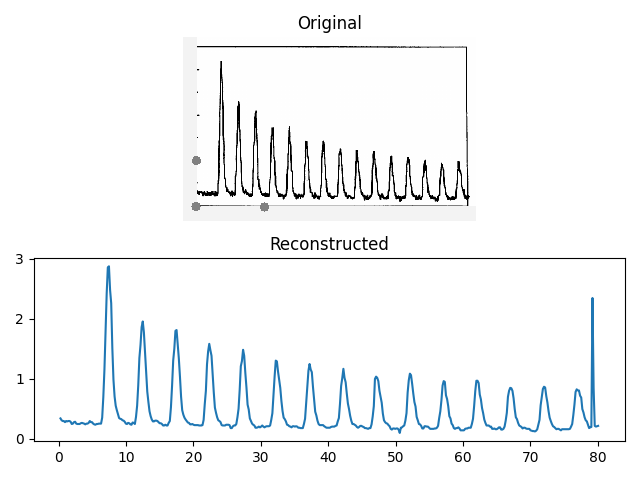
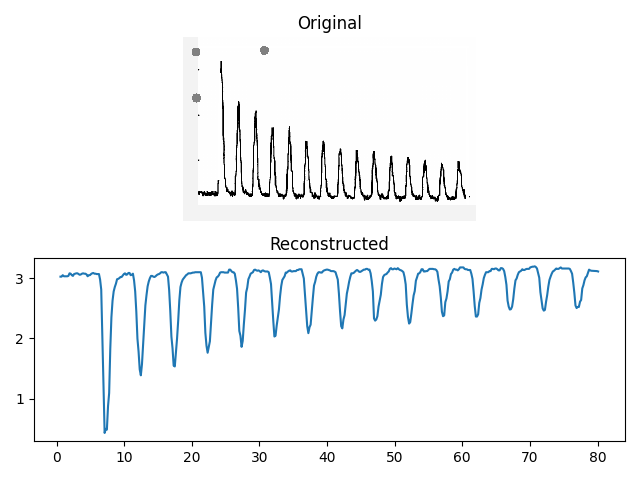
Still failing on test2

diff --git a/plotdigitizer/plotdigitizer.py b/plotdigitizer/plotdigitizer.py
@@ -16,6 +16,7 @@ import numpy.polynomial.polynomial as poly
 
 import plotdigitizer.grid as grid
 import plotdigitizer.trajectory as trajectory
+import plotdigitizer.geometry as geometry
 
 # import logging
 # logging.basicConfig(level=logging.INFO)
@@ -33,7 +34,7 @@ params_: T.Dict[str, T.Any] = {}
 args_ = None
 
 # NOTE: remember these are cv coordinates and not numpy.
-coords_: T.List[T.List[float]] = []
+locations_: T.List[T.List[float]] = []
 points_: T.List[T.List[float]] = []
 
 img_: np.ndarray = np.zeros((1, 1))
@@ -58,7 +59,7 @@ def save_img_in_cache(img: np.ndarray, filename: T.Optional[Path] = None):
 
 
 def plot_traj(traj, outfile: Path):
-    global coords_
+    global locations_
     import matplotlib.pyplot as plt
 
     x, y = zip(*traj)
@@ -66,7 +67,7 @@ def plot_traj(traj, outfile: Path):
     plt.subplot(211)
 
     # there are numpy coords.
-    for c in coords_:
+    for c in locations_:
         p = list(map(int, c))
         p[1] = img_.shape[0] - p[1]
         csize = img_.shape[0] // 40
@@ -92,7 +93,7 @@ def click_points(event, x, y, flags, params):
     # Function to record the clicks.
     if event == cv.EVENT_LBUTTONDOWN:
         logger.info("MOUSE clicked on %s,%s" % (x, y))
-        coords_.append((x, y))
+        locations_.append((x, y))
 
 
 def show_frame(img, msg="MSG: "):
@@ -104,20 +105,20 @@ def show_frame(img, msg="MSG: "):
 
 
 def ask_user_to_locate_points(points, img):
-    global coords_
+    global locations_
     cv.namedWindow(WindowName_)
     cv.setMouseCallback(WindowName_, click_points)
-    while len(coords_) < len(points):
-        i = len(coords_)
+    while len(locations_) < len(points):
+        i = len(locations_)
         p = points[i]
-        pLeft = len(points) - len(coords_)
+        pLeft = len(points) - len(locations_)
         show_frame(img, "Please click on %s (%d left)" % (p, pLeft))
-        if len(coords_) == len(points):
+        if len(locations_) == len(points):
             break
         key = cv.waitKey(1) & 0xFF
         if key == "q":
             break
-    logger.info("You clicked %s" % coords_)
+    logger.info("You clicked %s" % locations_)
 
 
 def list_to_points(points) -> T.List[T.List[float]]:
@@ -137,23 +138,20 @@ def compute_scaling_offset(p, P) -> T.List[T.Tuple[float, float]]:
     return [(sX, sY), (offX, offY)]
 
 
-def transform_axis(img, erase_near_axis: int = 1):
+def transform_axis(img, erase_near_axis: int = 2):
     # extra: extra rows and cols to erase. Help in containing error near axis.
     # compute the transformation between old and new axis.
-    T = compute_scaling_offset(points_, coords_)
+    T = compute_scaling_offset(points_, locations_)
 
     # FIXME: This is broken becuase compute_scaling_offset is not the right way
     # to trim the axis. Correct way to to figure out the location of axis and
     # trim from there. Can we make sure that user always click on lower side of
     # axis so I can trim below that?
     ## x-axis and y-axis chopping can be computed by offset.
-    ##r, _ = img.shape
-    ##offX, offY = T[1]
-    ##offCols, offRows = int(round(offX)), int(round(offY))
-    ##logger.info(f"Offsets: {offCols=}, {offRows=}")
-    ##img[r - offRows - erase_near_axis :, :] = params_["background"]
-    ##img[:, : offCols + erase_near_axis] = params_["background"]
-    ##logger.info(f"erase near axis: : {erase_near_axis}")
+    offCols, offRows = geometry.find_origin(locations_)
+    logger.info(f"{locations_=} → origin {offCols=}, {offRows=}")
+    img[:, :offCols+erase_near_axis] = params_["background"]
+    img[offRows-erase_near_axis:, :] = params_["background"]
     logger.debug(f"Tranformation params: {T}")
     return T
 
@@ -242,7 +240,7 @@ def process_image(img):
     global args_
     params_ = compute_foregrond_background_stats(img)
 
-    T = transform_axis(img, erase_near_axis=1)
+    T = transform_axis(img, erase_near_axis=3)
     save_img_in_cache(img, f"{args_.INPUT.name}.transformed_axis.png")
 
     # extract the plot that has color which is farthest from the background.
@@ -253,7 +251,7 @@ def process_image(img):
 
 
 def run(args):
-    global coords_, points_
+    global locations_, points_
     global img_, args_
     args_ = args
 
@@ -273,10 +271,10 @@ def run(args):
     save_img_in_cache(img_, args_.INPUT.name)
 
     points_ = list_to_points(args.data_point)
-    coords_ = list_to_points(args.location)
+    locations_ = list_to_points(args.location)
     logger.debug(f"{args.data_point=} → {args.location=}")
 
-    if len(coords_) != len(points_):
+    if len(locations_) != len(points_):
         logger.warning(
             "Either the location of data-points are not specified or their numbers don't"
             " match with given datapoints. Asking user..."
@@ -286,8 +284,8 @@ def run(args):
     # opencv has (0,0) on top-left while numpy has at bottom left. Converting
     # opencv axis to numpy axis.
     yoffset = img_.shape[0]
-    coords_ = [(x, yoffset - y) for (x, y) in coords_]
-    logger.debug(f" translated to numpy-axis {coords_}")
+    locations_ = [(x, yoffset - y) for (x, y) in locations_]
+    logger.debug(f" translated to numpy-axis {locations_}")
 
     # erosion after dilation (closes gaps)
     if args_.preprocess:
@@ -296,9 +294,9 @@ def run(args):
         img_ = cv.morphologyEx(img_, cv.MORPH_CLOSE, kernel)
         save_img_in_cache(img_, f"{args_.INPUT.name}.close.png")
 
-    if args.has_grid:
-        img_ = grid.remove_grid(img_)
-        save_img_in_cache(img_, f"{args_.INPUT.name}.without_grid.png")
+    # remove grids if found.
+    img_ = grid.remove_grid(img_)
+    save_img_in_cache(img_, f"{args_.INPUT.name}.without_grid.png")
 
     traj = process_image(img_)
 
@@ -363,13 +361,6 @@ def main():
         required=False,
         action="store_true",
         help="Enable debug logger",
-    )
-    parser.add_argument(
-        "--has-grid",
-        required=False,
-        action="store_true",
-        help="My images has grid which is very prominent. When this option is"
-        " set, I'll try to remove the grid.",
     )
     args = parser.parse_args()
     run(args)

diff --git a/plotdigitizer/geometry.py b/plotdigitizer/geometry.py
@@ -3,12 +3,9 @@ __email__ = "dilawar.s.rajput@gmail.com"
 
 import typing as T
 import statistics
-import itertools
-from collections import defaultdict
 import math
 
-
-def compute_origin(pts: T.List[T.Tuple[float, float]]):
+def find_origin(pts: T.List[T.Tuple[float, float]]) -> T.Tuple[int, int]:
     """Compute origin of given points."""
     horizontal = set()
     for i, p1 in enumerate(pts):
@@ -17,13 +14,14 @@ def compute_origin(pts: T.List[T.Tuple[float, float]]):
             if abs(x1 - x2) <= 2:
                 continue
             m = (y2 - y1) / (x2 - x1)
-            if abs(m) < 0.01:
+            if abs(m) < math.tan(math.pi/180*5):   # <5 deg is horizontal.
                 horizontal.add(p1)
                 horizontal.add(p2)
 
     points = set(pts)
-    assert len(horizontal) > 1, "Must have at least two co-linear points"
+    assert len(horizontal) > 1, f"Must have at least two colinear points {horizontal}"
     verticals = points - horizontal
+    assert len(verticals) > 0, f"Must be at least one vertical point"
     originY = statistics.mean([x[1] for x in horizontal])
     originX = statistics.mean([x[0] for x in verticals])
     return int(originX), int(originY)
@@ -31,8 +29,19 @@ def compute_origin(pts: T.List[T.Tuple[float, float]]):
 
 def test_origin():
     pts = [(81, 69), (1779, 68), (81, 449)]
-    x, y = compute_origin(pts)
+    x, y = find_origin(pts)
+    print(pts, '->', (x, y))
     assert (x, y) == (81, 68), (x, y)
+
+    pts = [(23, 26), (140, 23), (22, 106)]
+    x, y = find_origin(pts)
+    print(pts, '->', (x, y))
+    assert (x, y) == (22, 24), (x, y)
+
+    pts = [(2, 12), (897, 12), (2, 183)]
+    x, y = find_origin(pts)
+    assert (x, y) == (2, 12), (x, y)
+    print(pts, '->', (x, y))
 
 
 if __name__ == "__main__":
